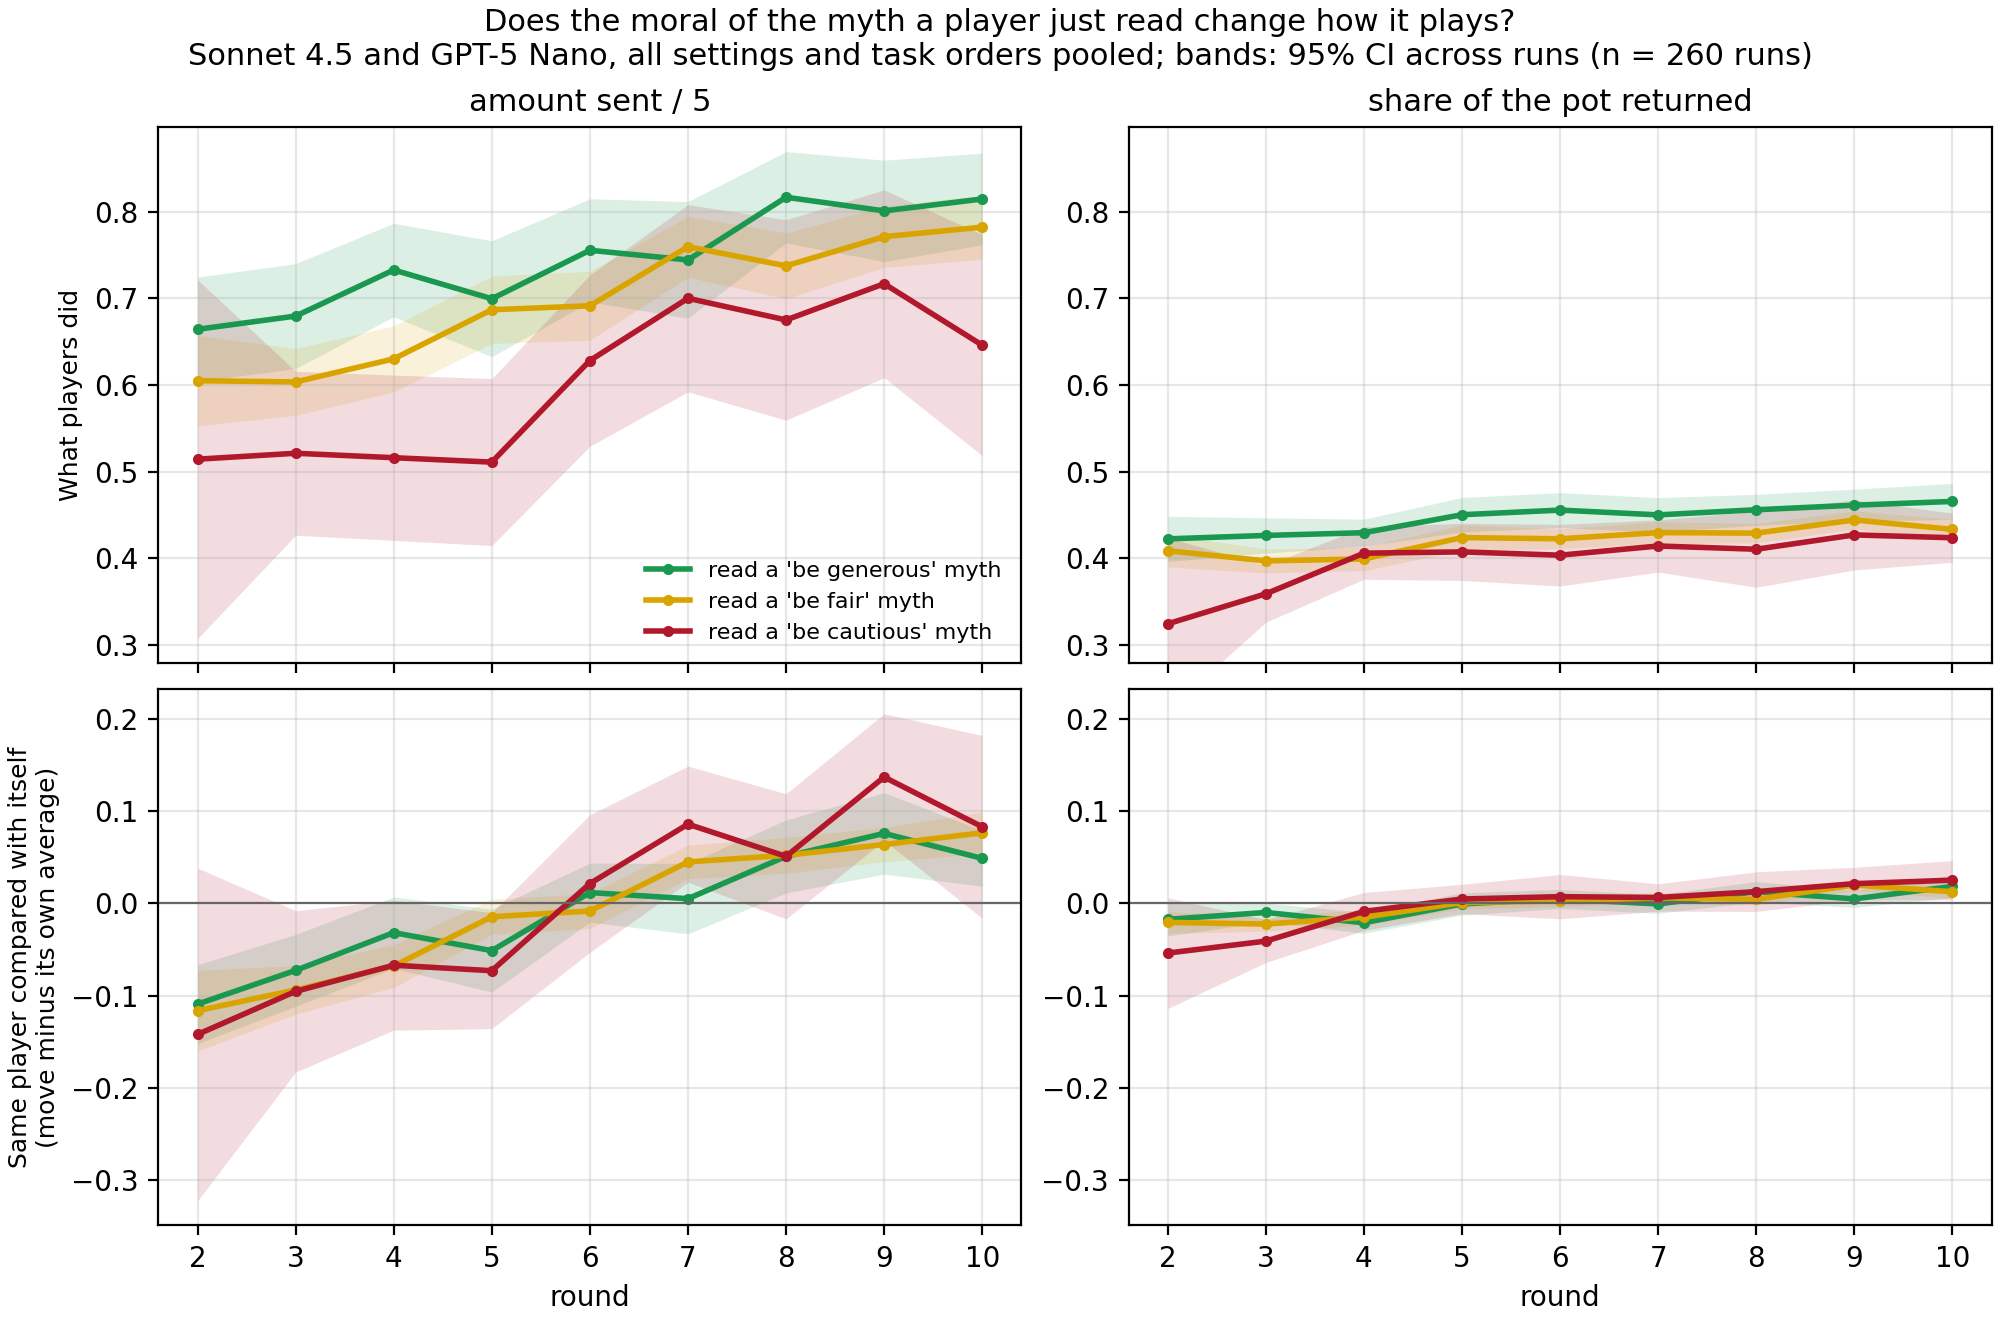
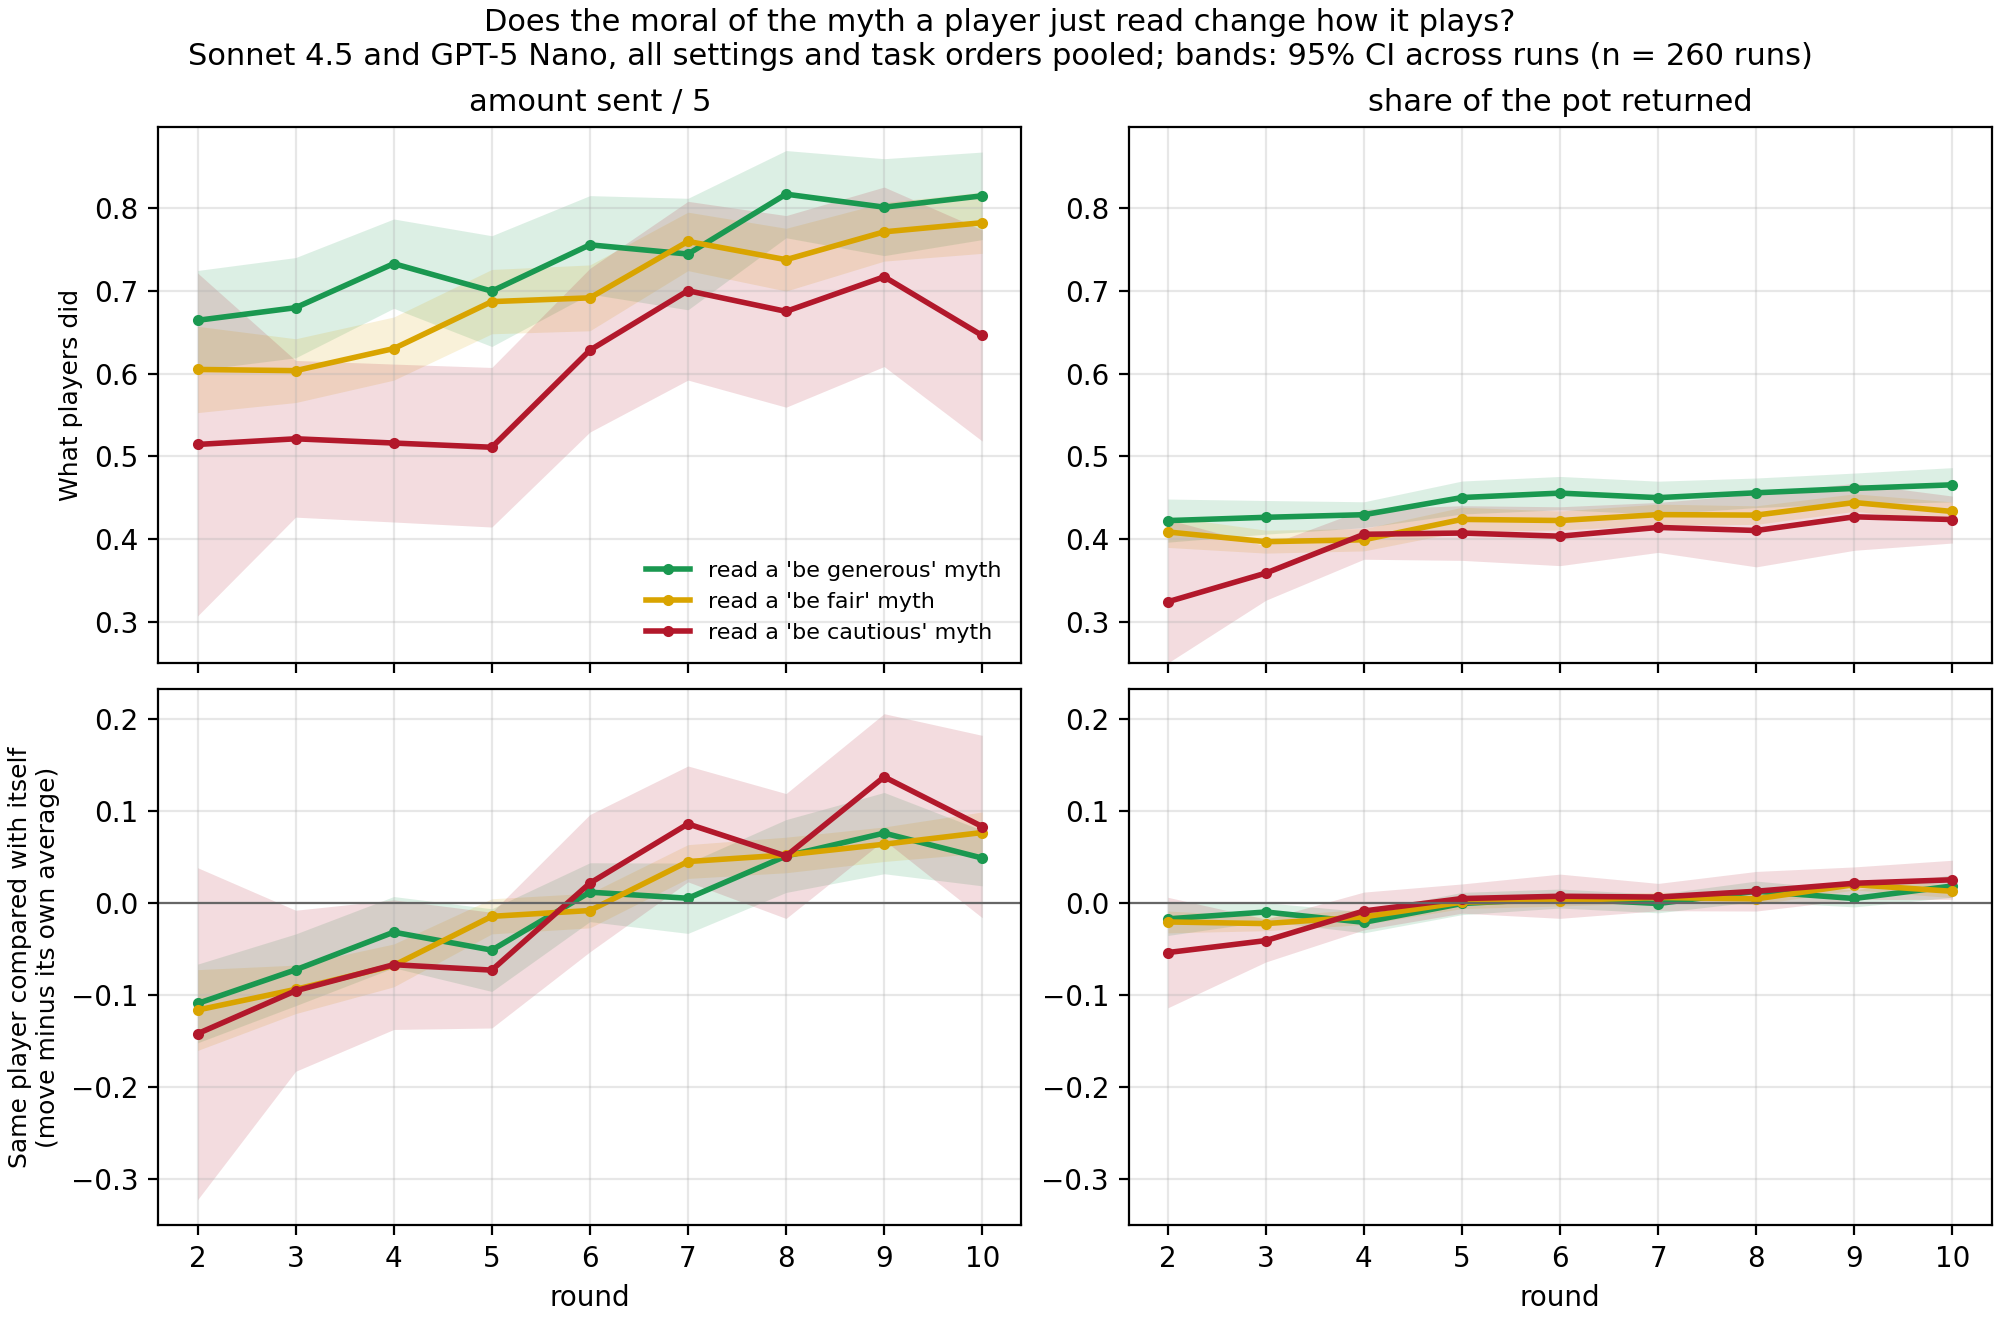
Address PR #40 review: sample note, within-model gap, keep bands in axes

diff --git a/analyses/plot_moral_send_return_simple.py b/analyses/plot_moral_send_return_simple.py
@@ -8,8 +8,10 @@ per-condition appendix grids from analyses/moral_carryover.py.
 
 The label is the judge's moral (GLM-5.2) of the latest myth the player was
 shown before the decision. Two rows:
-  top:    raw means. Players shown generous myths do send more, but that mixes
-          who is reading (each model has its own style) with what they read.
+  top:    raw means. Players shown generous myths do send more, even within
+          one model, but that mixes the run and partner a player has (e.g.
+          generous myths come from Gemini partners far more often than
+          cautious ones) with what they read.
   bottom: the same player compared with itself: each move minus that player's
           own average move in that role over the run. If reading a generous myth
           changed play, the green line would sit above the others here.
@@ -43,6 +45,7 @@ from analyses import moral_carryover as mc  # noqa: E402
 
 OUT = ROOT / "docs/figures/moral_send_return_simple_20261007"
 MIN_RUNS = 5
+YMIN = {"coop": 0.25, "coop_vs_own_avg": -0.35}  # keep wide early bands inside the axes
 ROLES = (("investor", "amount sent / 5"), ("trustee", "share of the pot returned"))
 
 
@@ -84,7 +87,7 @@ def main() -> None:
                 s = table[(table["measure"] == measure) & (table["role"] == role) & (table["shown_label"] == lab)]
                 s = s.set_index("round").reindex(range(2, 11))
                 s.loc[s["n_runs"] < MIN_RUNS, ["mean", "ci_low", "ci_high"]] = np.nan
-                ax.fill_between(s.index, s["ci_low"], s["ci_high"], color=mc.LABEL_COLORS[lab], alpha=0.15, lw=0)
+                ax.fill_between(s.index, s["ci_low"].clip(lower=YMIN[measure]), s["ci_high"], color=mc.LABEL_COLORS[lab], alpha=0.15, lw=0)
                 ax.plot(s.index, s["mean"], color=mc.LABEL_COLORS[lab], lw=2, marker="o", ms=3,
                         label=f"read a '{lab}' myth")
             if measure == "coop_vs_own_avg":
@@ -96,6 +99,7 @@ def main() -> None:
             ax.grid(alpha=0.3)
             ax.set_xticks(range(2, 11))
         axes[i, 1].sharey(axes[i, 0])
+        axes[i, 0].set_ylim(bottom=YMIN[measure])
     for ax in axes[-1]:
         ax.set_xlabel("round")
     axes[0, 0].legend(fontsize=8, loc="lower right", frameon=False)

diff --git a/docs/figures/moral_send_return_simple_20261007/README.md b/docs/figures/moral_send_return_simple_20261007/README.md
@@ -11,22 +11,29 @@ rounds for the three moral labels instead of the appendix grids
 before it played (judge: GLM-5.2; be generous / be fair / be cautious).
 
 - **Top row, what players did.** Players who had just read a generous myth sent
-  more (0.75 of the endowment on average) than those who read a fair one (0.68)
+  more (averaged over decisions: 0.75 of the endowment) than those who read a fair one (0.68)
   or a cautious one (0.60). Returns barely differ (0.45 / 0.43 / 0.40).
 - **Bottom row, the same player compared with itself.** Each move minus that
   player's own average move in that role. Here the three lines lie on top of
   each other. A player does not send more in the rounds after it reads a
   generous myth than in the rounds after it reads a cautious one.
 
-So the gap in the top row comes from *who* reads which myth (generous writers
-and generous players cluster in the same runs and models), not from the myth
-changing the reader. This is the behaviour-transfer claim: it barely happens.
+So the gap in the top row comes from *who* reads which myth, not from the myth
+changing the reader. The gap holds inside each model (GPT investors send
+0.56 / 0.65 / 0.71 after cautious / fair / generous myths, Sonnet 0.67 / 0.71 /
+0.78), so it is about the run and partner a player has: for example, 27% of the
+generous myths shown came from Gemini partners, against none of the cautious
+ones. This is the behaviour-transfer claim: it barely happens. Only 9% of
+players see both a generous and a cautious myth in one run, and the
+cautious-vs-fair interval below is wide, so "barely" fits; "no effect" would
+overclaim for cautious myths.
 
 **Matching test.** Agent-within-run + round fixed effects, own last move
 (`linguistic_analysis_n10_20261001/moral_carryover_models.csv`, all settings,
 "own + shown label, own lag"): shown generous vs fair −0.004 sent/5
 (95% CI −0.021 to 0.012, p = 0.62); shown cautious vs fair +0.007
-(−0.031 to 0.045, p = 0.72); returns +0.001 and +0.003, both p > 0.5.
+(−0.031 to 0.045, p = 0.72); returns +0.001 and +0.003, both p > 0.5. That model includes Gemini players
+(300 runs; 6,718 send and 5,561 return decisions); the figure leaves them out.
 
 **Sample and choices.** September informed negative-only runs at n = 10 per
 cell (`LINGUISTIC_DATASET=september_n10`). Sonnet 4.5 and GPT-5 Nano only;
